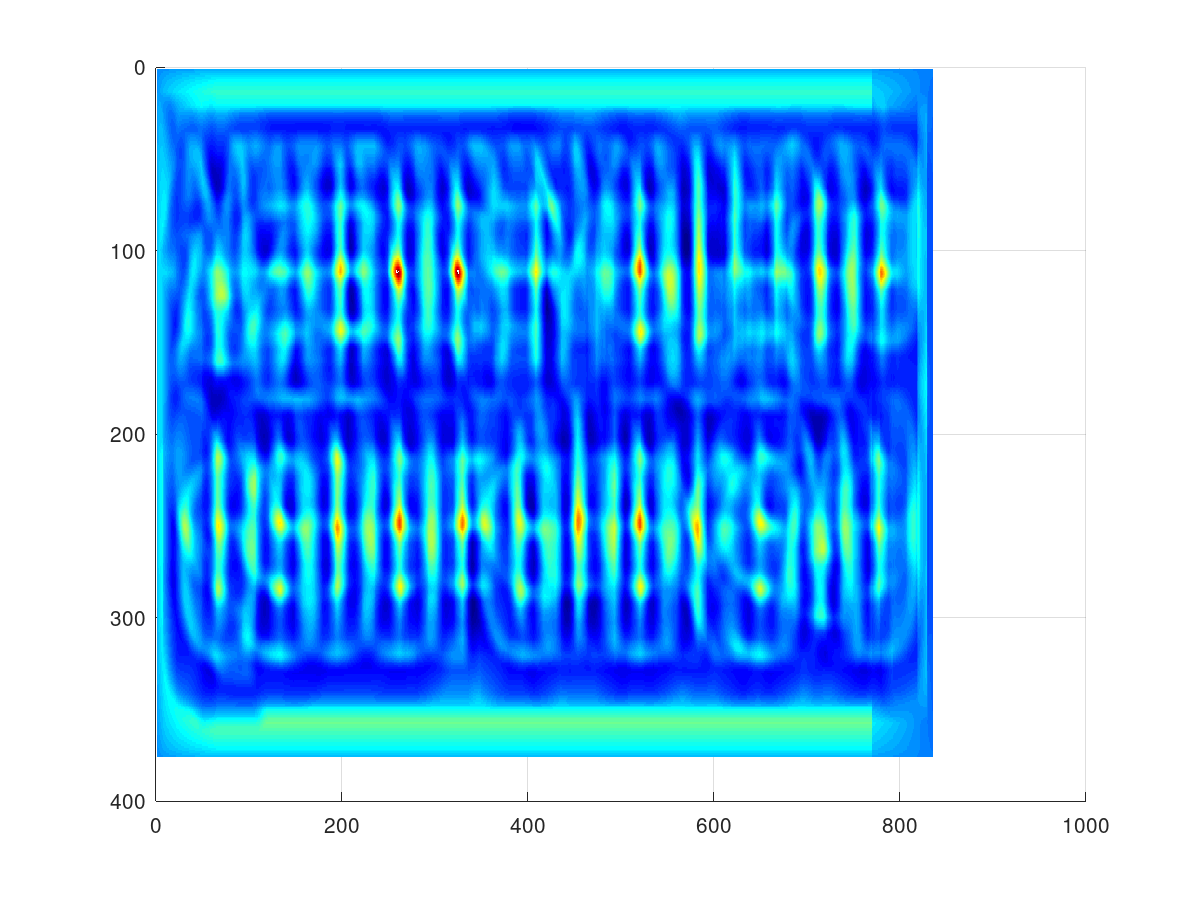
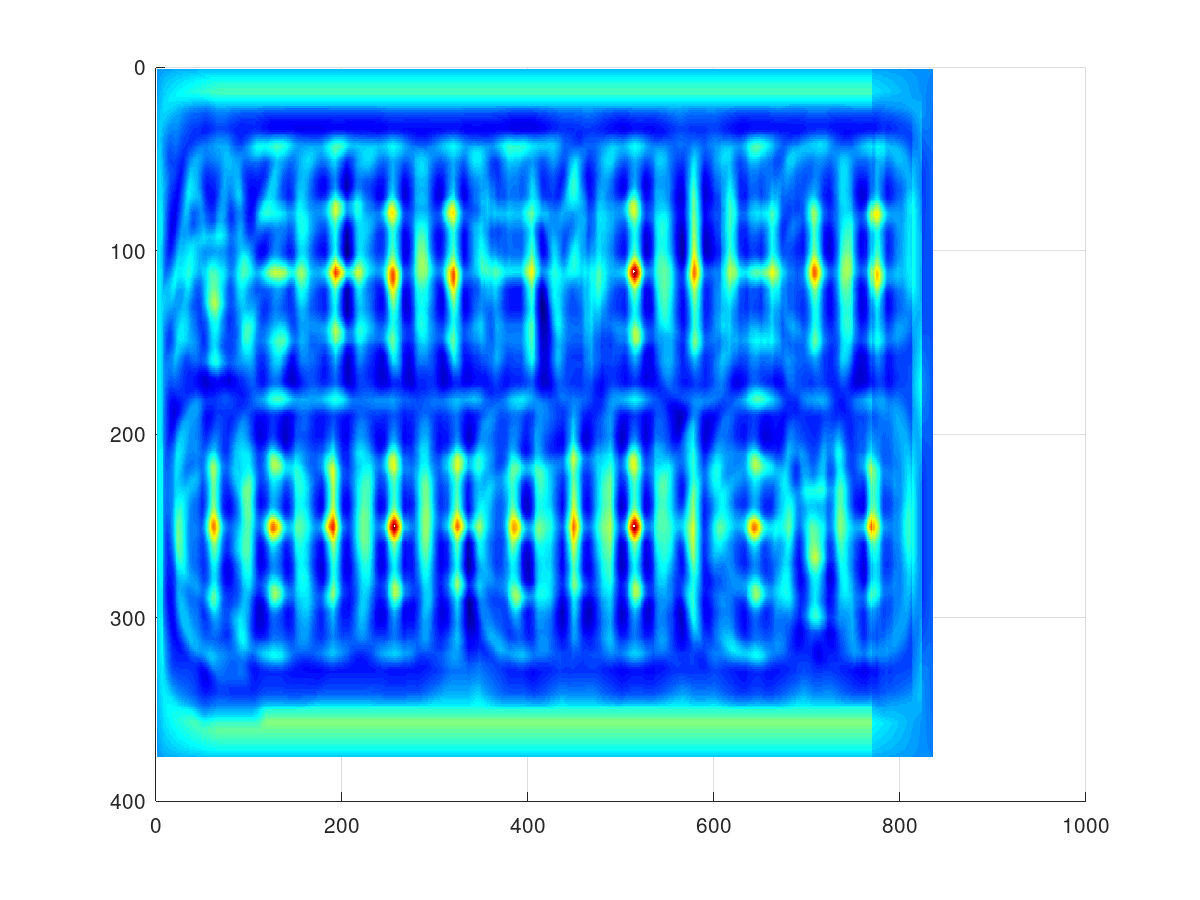
Organisation du code en fonction

diff --git a/main.m b/main.m
@@ -1,5 +1,5 @@
-clear all;
-close all;
+%clear all;
+%close all;
 
 % Import libraries
 %graphics_toolkit gnuplot
@@ -7,20 +7,41 @@ pkg load signal
 pkg load image
 pkg load geometry
 
+%Function definition
+function res=findMax(d)
+  res=[];
+  ja=length(d(1,:))-1;
+  ia=length(d(:,1))-1;
+  for i=1:ia
+    for j=1:ja
+      if d(i,j)>0.9
+        res=[res; [i,j]];
+      endif
+    endfor
+  endfor
+endfunction
+
+
+function showLoc (res,ech)
+  figure(1)
+  hold on;
+  for i=1:length(res)
+    drawCircle(res(i,2)-length(ech(1,:))/2, res(i,1)-length(ech(:,1))/2, 10)
+  endfor
+endfunction
+
+function res=picPrep(pic)
+  pic=rgb2gray(pic); % Transform to gray scale
+  pic=im2double(pic);% Transform to double data
+  res=pic-mean(mean(pic));
+endfunction
 % Image read
-B=imread("motif3.png");
+B=imread("R.png");
 mot=imread("mot.png");
+%mot=imread("../photomotif.jpg");
 
-% Transform to gray scale
-B=rgb2gray(B);  
-mot=rgb2gray(mot);
-
-% Transform to double data
-B=im2double(B); 
-mot=im2double(mot);
-
-B=B-mean(mean(B));
-mot=mot-mean(mean(mot));
+B=picPrep(B);
+mot=picPrep(mot);
 
 % Save gray scale images
 % saveas(imshow(B),   "Rapports/illus/motifm0.png");
@@ -37,23 +58,9 @@ colormap("jet");
 shading("flat");
 
 surf(d,"edgecolor","none")
-saveas(figure(3),"Rapports/illus/cor.png");
+%saveas(figure(3),"Rapports/illus/cor.png");
 view(0,-90)
-saveas(figure(3),"Rapports/illus/cor1.png");
-figure(1)
-hold on;
-res=[];
-ja=length(d(1,:))-1;
-ia=length(d(:,1))-1;
-for i=1:ia
-  for j=1:ja
-    if d(i,j)>0.9
-      res=[res; [i,j]];
-    endif
-  endfor
-endfor
+%saveas(figure(3),"Rapports/illus/cor1.png");
+showLoc(findMax(d),ech);
 
-for i=1:length(res)
-  drawCircle(res(i,2)-length(ech(1,:))/2, res(i,1)-length(ech(:,1))/2, 10)
-endfor
-saveas(figure(1),"Rapports/illus/motiflocal3.png")
+%saveas(figure(1),"Rapports/illus/motiflocal3.png")
